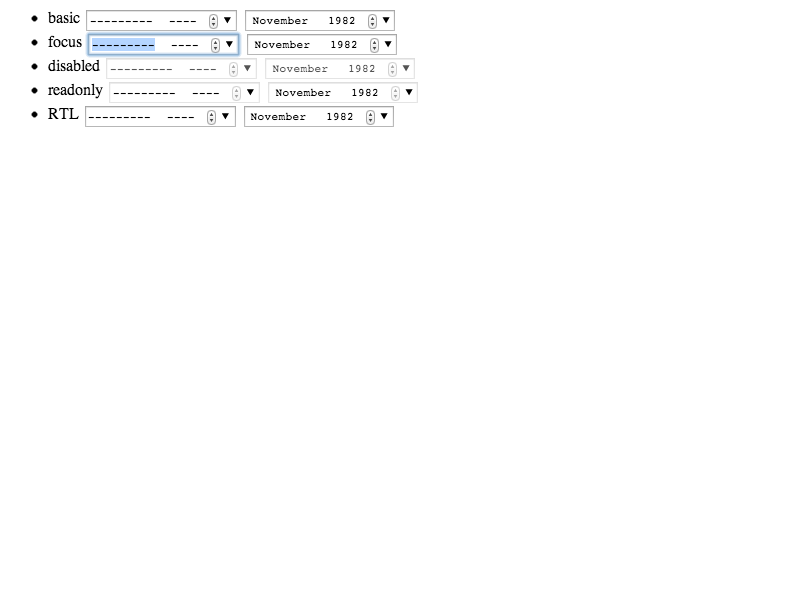
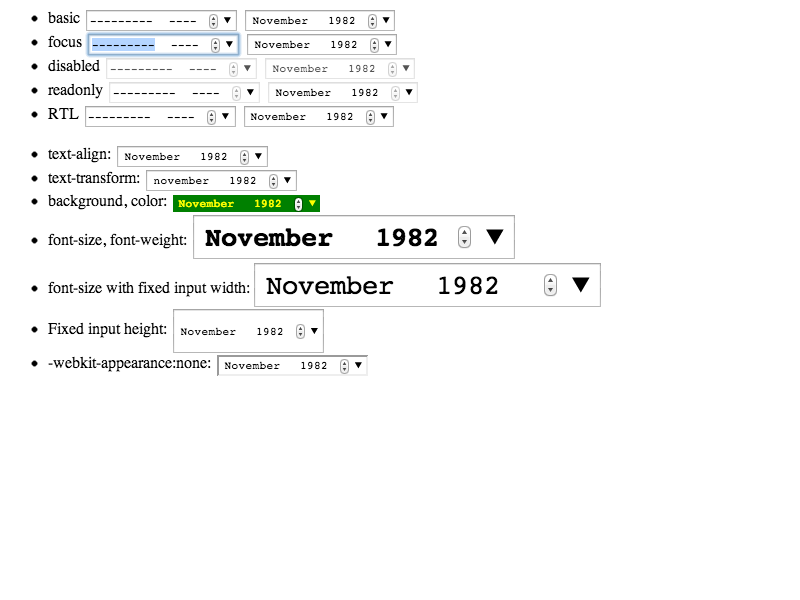
Reduce the number of pixel tests for date/time input types https://bugs.webkit.org/show_bug.cgi?id=103373
Reviewed by Kentaro Hara.

Merge fast/forms/<type>/<type>-appearance-style.html and
<type>-appearance-disabled-readonly.html into
<type>-appearance-basic.html, and add tests for font-weight, height, and
-webkit-appearance:none.

* fast/forms/date/date-appearance-basic-expected.txt:
* fast/forms/date/date-appearance-basic.html:
* fast/forms/date/date-appearance-style-expected.txt: Removed.
* fast/forms/date/date-appearance-style.html: Removed.
* fast/forms/month/month-appearance-basic-expected.txt:
* fast/forms/month/month-appearance-basic.html:
* fast/forms/month/month-appearance-style-expected.txt: Removed.
* fast/forms/month/month-appearance-style.html: Removed.
* fast/forms/time/time-appearance-basic-expected.txt:
* fast/forms/time/time-appearance-basic.html:
* fast/forms/time/time-appearance-disabled-readonly-expected.txt: Removed.
* fast/forms/time/time-appearance-disabled-readonly.html: Removed.
* fast/forms/time/time-appearance-style-expected.txt: Removed.
* fast/forms/time/time-appearance-style.html: Removed.
* fast/forms/week/week-appearance-basic-expected.txt:
* fast/forms/week/week-appearance-basic.html:
* fast/forms/week/week-appearance-style-expected.txt: Removed.
* fast/forms/week/week-appearance-style.html: Removed.
* platform/chromium-linux/fast/forms/date/date-appearance-style-expected.png: Removed.
* platform/chromium-linux/fast/forms/month/month-appearance-style-expected.png: Removed.
[…]

Changed region(s): [[0.0312, 0.24, 0.75, 0.63]]

diff --git a/LayoutTests/fast/forms/time/time-appearance-basic.html b/LayoutTests/fast/forms/time/time-appearance-basic.html
@@ -1,19 +1,29 @@
 <html>
 <body>
+<script>
+if (window.testRunner)
+    testRunner.dumpAsText(true);
+</script>
 <ul>
-    <li>step=none <input id="focus" type="time"> <input type="time" value="12:34"></li>
+    <li>step=none <input autofocus type="time"> <input type="time" value="12:34"></li>
     <li>step=1 <input type="time" step="1"> <input step="1" type="time" value="12:34:56"></li>
     <li>step=0.0001 <input type="time" step="0.001"> <input step="0.001" type="time" value="12:34:56.789"></li>
     <li>step=60 <input type="time" step="60"> <input step="60" type="time" value="12:34"></li>
     <li>step=3600 <input type="time" step="3600"> <input step="3600" type="time" value="12:00"></li>
     <li>step mismatched   <input type="time" step="60" value="12:34:56"></li>
     <li>RTL <input type="time" step="1" value="12:34:56" dir="rtl"></li>
+    <li>Disabled, step=3600 <input disabled type="time" step="3600"> <input disabled step="3600" type="time" value="12:34"></li>
+    <li>Readonly, step=3600 <input readonly type="time" step="3600"> <input readonly step="3600" type="time" value="12:34"></li>
+</ul>
+
+<ul>
+    <li>text-align: <input type="time" value="12:34" style="text-align: left;"></li>
+    <li>text-transform: <input type="time" value="12:34" style="text-transform: lowercase;"></li>
+    <li>background, color: <input type="time" value="12:34" style="border: 0px; background: green; color: yellow;"></li>
+    <li>font-size, font-weight: <input type="time" value="12:34" style="font-size: 20pt; font-weight: bold;"></li>
+    <li>font-size with fixed input width: <input type="time" value="12:34" style="font-size: 20pt; width: 10em;"></li>
+    <li>Fixed input height: <input type="time" value="12:34" style="height: 4em;"></li>
+    <li>-webkit-appearance:none: <input type="time" value="13:56" style="-webkit-appearance: none;"></li>
 </ul>
 </body>
-<script>
-document.getElementById("focus").focus();
-if (window.testRunner) {
-    testRunner.dumpAsText(true);
-}
-</script>
 </html>

diff --git a/LayoutTests/fast/forms/week/week-appearance-basic.html b/LayoutTests/fast/forms/week/week-appearance-basic.html
@@ -1,5 +1,9 @@
 <html>
 <body>
+<script>
+if (window.testRunner)
+    testRunner.dumpAsText(true);
+</script>
 <ul>
     <li>basic <input type="week"> <input type="week" value="1982-W25"></li>
     <li>focus <input autofocus type="week"> <input type="week" value="1982-W25"></li>
@@ -8,9 +12,15 @@
     <li>RTL <input type="week" dir="rtl"> <input type="week" value="1982-W25" dir="rtl"></li>
     <li>With max <input type="week" max="9999-W52"> <input type="week" value="1982-W25" max="9999-W52"></li>
 </ul>
+
+<ul>
+    <li>text-align: <input type="week" value="1982-W25" style="text-align: left;"></li>
+    <li>text-transform: <input type="week" value="1982-W25" style="text-transform: lowercase;"></li>
+    <li>background, color: <input type="week" value="1982-W25" style="border: 0px; background: green; color: yellow;"></li>
+    <li>font-size, font-weight: <input type="week" value="1982-W25" style="font-size: 20pt; font-weight: bold;"></li>
+    <li>font-size with fixed input width: <input type="week" value="1982-W25" style="font-size: 20pt; width: 14em;"></li>
+    <li>Fixed input height: <input type="week" value="1982-W25" style="height: 4em;"></li>
+    <li>-webkit-appearance:none: <input type="week" value="1982-W25" style="-webkit-appearance: none;"></li>
+</ul>
 </body>
-<script>
-if (window.testRunner)
-    testRunner.dumpAsText(true);
-</script>
 </html>

diff --git a/LayoutTests/fast/forms/month/month-appearance-basic.html b/LayoutTests/fast/forms/month/month-appearance-basic.html
@@ -1,5 +1,9 @@
 <html>
 <body>
+<script>
+if (window.testRunner)
+    testRunner.dumpAsText(true);
+</script>
 <ul>
     <li>basic <input type="month"> <input type="month" value="1982-11"></li>
     <li>focus <input autofocus type="month"> <input type="month" value="1982-11"></li>
@@ -7,9 +11,15 @@
     <li>readonly <input type="month" readonly> <input type="month" value="1982-11" readonly></li>
     <li>RTL <input type="month" dir="rtl"> <input type="month" value="1982-11" dir="rtl"></li>
 </ul>
+
+<ul>
+    <li>text-align: <input type="month" value="1982-11" style="text-align: left;"></li>
+    <li>text-transform: <input type="month" value="1982-11" style="text-transform: lowercase;"></li>
+    <li>background, color: <input type="month" value="1982-11" style="border: 0px; background: green; color: yellow;"></li>
+    <li>font-size, font-weight: <input type="month" value="1982-11" style="font-size: 20pt; font-weight: bold;"></li>
+    <li>font-size with fixed input width: <input type="month" value="1982-11" style="font-size: 20pt; width: 13em;"></li>
+    <li>Fixed input height: <input type="month" value="1982-11" style="height: 4em;"></li>
+    <li>-webkit-appearance:none: <input type="month" value="1982-11" style="-webkit-appearance: none;"></li>
+</ul>
 </body>
-<script>
-if (window.testRunner)
-    testRunner.dumpAsText(true);
-</script>
 </html>

diff --git a/LayoutTests/fast/forms/date/date-appearance-basic.html b/LayoutTests/fast/forms/date/date-appearance-basic.html
@@ -11,5 +11,15 @@ if (testRunner)
     <li>RTL <input type="date" value="2012-10-05" dir="rtl"></li>
     <li>With max <input type="date" max="0099-12-31"> <input type="date" value="2012-10-05" max="99999-12-31"></li>
 </ul>
+
+<ul>
+    <li>text-align: <input type="date" value="2012-10-05" style="text-align: left;"></li>
+    <li>text-transform: <input type="date" value="2012-10-05" style="text-transform: lowercase;"></li>
+    <li>background, color: <input type="date" value="2012-10-05" style="border: 0px; background: green; color: yellow;"></li>
+    <li>font-size, font-weight: <input type="date" value="2012-10-05" style="font-size: 20pt; font-weight: bold;"></li>
+    <li>font-size with fixed input width: <input type="date" value="2012-10-05" style="font-size: 20pt; width: 14em;"></li>
+    <li>Fixed input height: <input type="date" value="2012-10-05" style="height: 4em;"></li>
+    <li>-webkit-appearance:none: <input type="date" value="2012-10-05" style="-webkit-appearance: none;"></li>
+</ul>
 </body>
 </html>
